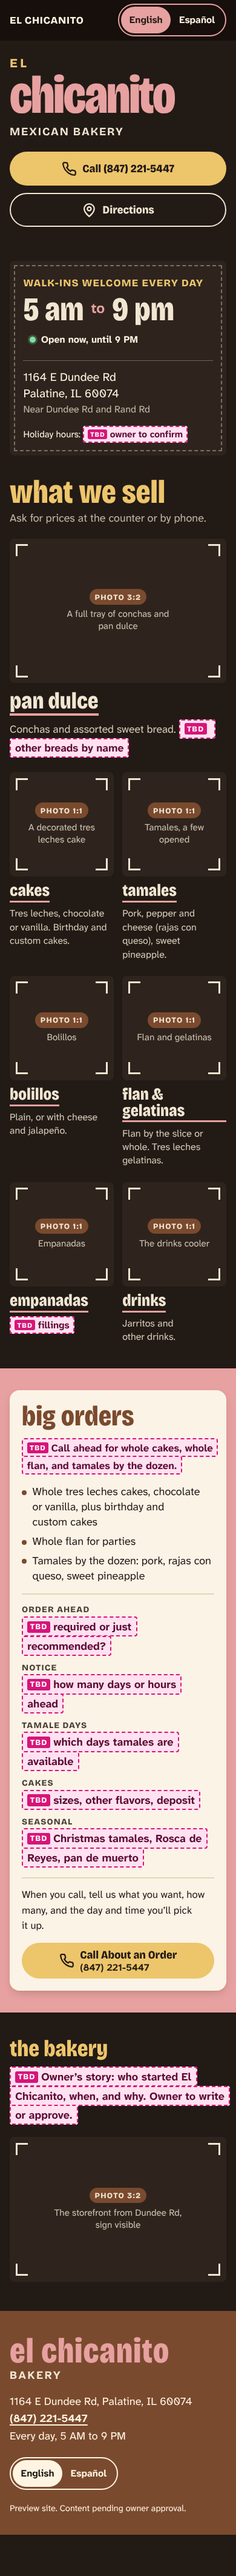
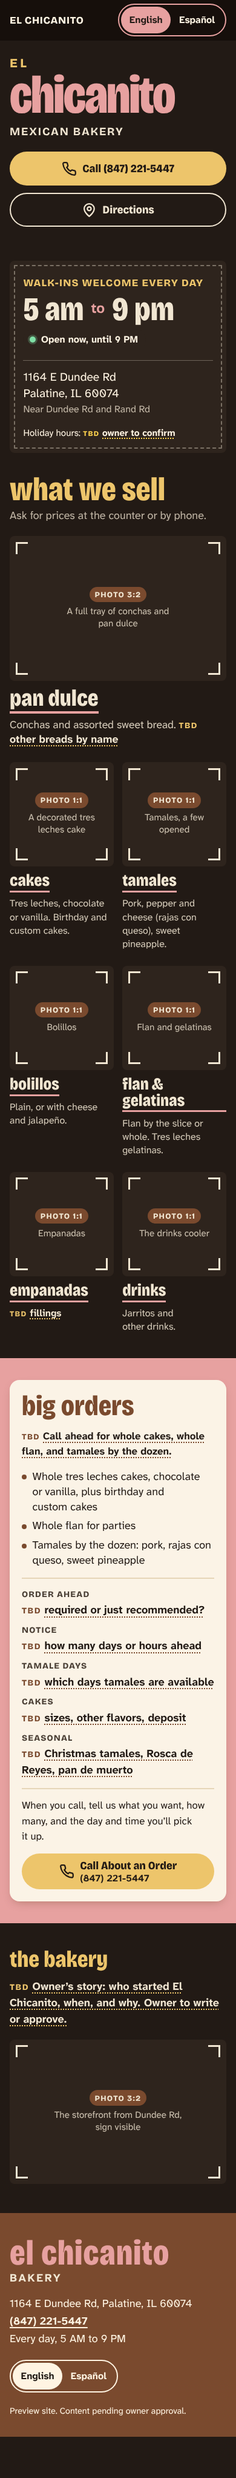
Restyle TBD placeholders in the site palette
Dark brown bold text with a dotted mustard underline and a small-caps
mustard TBD / Pendiente label; cream and sign yellow on the teal board.
No pink remains. Docs and Charola mockup updated to match.

Claude-Session: https://claude.ai/code/session_01HqK5gLnsxx27P9fMwrqeT7

diff --git a/styles.css b/styles.css
@@ -33,11 +33,10 @@
   --shadow: rgb(70 40 0 / .35);
   --cream-wash: rgb(255 244 226 / .14);
 
-  /* placeholders: deliberately off-palette so they are easy to find */
-  --ph-bg: #FFE1F0;
-  --ph-line: #D6157A;
-  --ph-ink: #5C0A35;
-  --ph-tag-ink: #FFFFFF;
+  /* placeholders: palette colors, marked by a mustard dotted underline and a TBD label */
+  --ph-ink: var(--ink-soft);   /* dark brown text */
+  --ph-line: var(--marigold);  /* mustard dotted underline */
+  --ph-tag: #855A00;           /* mustard label, deepened to stay readable on light grounds (5:1) */
 
   --display: "Anybody", "Arial Narrow", sans-serif;
   --body: "Atkinson Hyperlegible Next", "Segoe UI", system-ui, sans-serif;
@@ -465,29 +464,27 @@ address { font-style: normal; }
 
 /* ---------- Placeholders: easy to spot, easy to grep (class="ph") ---------- */
 .ph {
-  background: var(--ph-bg);
   color: var(--ph-ink);
-  border: 2px dashed var(--ph-line);
-  border-radius: 4px;
-  padding: .15em .4em;
-  line-height: 1.75;
   font-weight: 700;
-  -webkit-box-decoration-break: clone;
-  box-decoration-break: clone;
+  text-decoration-line: underline;
+  text-decoration-style: dotted;
+  text-decoration-color: var(--ph-line);
+  text-decoration-thickness: 2px;
+  text-underline-offset: .25em;
+  text-decoration-skip-ink: none;
 }
 .ph::before {
   content: "TBD";
-  display: inline-block;
+  display: inline-block;   /* keeps the underline off the label */
   margin-right: .4em;
-  padding: .05em .35em;
-  border-radius: 3px;
-  background: var(--ph-line);
-  color: var(--ph-tag-ink);
-  font: 800 .72em/1.4 var(--display);
-  letter-spacing: .08em;
+  color: var(--ph-tag);
+  font: 800 .78em/1 var(--display);
+  font-stretch: 115%;
+  letter-spacing: .1em;
   text-transform: uppercase;
-  vertical-align: .12em;
 }
+/* On the dark teal board the same marker switches to light text and the sign yellow. */
+.board .ph { --ph-ink: var(--cream); --ph-line: var(--sign-yellow); --ph-tag: var(--sign-yellow); }
 html[lang="es"] .ph::before { content: "Pendiente"; }
 
 /* ---------- About ---------- */

diff --git a/mockups/charola.css b/mockups/charola.css
@@ -22,6 +22,9 @@
 }
 
 body { background: var(--board); color: var(--chalk); }
+/* placeholders on the dark board use chalk text and concha yellow; on paper slips they go dark again */
+.ph { --ph-ink: var(--chalk); --ph-line: var(--concha-yellow); --ph-tag: var(--concha-yellow); }
+.slip .ph { --ph-ink: var(--board); --ph-line: var(--cocoa); --ph-tag: var(--cocoa); }
 ::selection { background: var(--concha-yellow); color: var(--board); }
 .link { color: var(--concha-pink); }
 :focus-visible { outline-color: var(--concha-yellow); }

diff --git a/DESIGN.md b/DESIGN.md
@@ -14,7 +14,7 @@ The page reads as the bakery's own painted signage, seen on a phone.
 | `--teal` | #1F5E5B | Hours board |
 | `--ink` | #1E1813 | Text, top bar, menu board, call dock |
 | `--cream` | #FFF4E2 | Text on red/teal/ink (4.8:1 on red) |
-| `--ph-*` | pink #D6157A family | Placeholders only, deliberately off-palette |
+| `--ph-*` | ink-soft text, marigold underline, #855A00 label | Placeholders (cream/sign-yellow on the teal board) |
 
 ## Type
 - Display: **Anybody** (variable, wdth 50–150, wght 100–900). The name uses wdth 64 / 850 with an ink outline and a 6-step drop shade; section titles use wdth 50–70 / 900, uppercase; small labels use wide widths (120–150%) with letter-spacing.
@@ -26,7 +26,7 @@ The page reads as the bakery's own painted signage, seen on a phone.
 - **Slip:** paper card with a dashed top edge (torn from the pad) and a soft shadow.
 - **Pad:** numbered order checklist; ruled lines follow the items.
 - **Buttons:** 56px tall, 3px ink border, marigold fill (call) or cream outline on red.
-- **Placeholder** `.ph`: pink dashed pill with a TBD / Pendiente tag.
+- **Placeholder** `.ph`: dark brown bold text, 2px dotted mustard underline, small-caps mustard "TBD" / "Pendiente" label.
 - **Photo slot** `.photo`: aspect-ratio frame with corner crop marks.
 - **Dock:** fixed call bar on phones. It is hidden while the hero buttons are visible, and hidden entirely on desktop, where the phone number sits in the top bar.
 

diff --git a/README.md b/README.md
@@ -22,7 +22,7 @@ Then open `http://localhost:8000/`. Useful links:
 
 ## Placeholders to fill (owner to confirm)
 
-Every unconfirmed item has a pink dashed tag on the page (TBD / Pendiente). To find them in the code, search `class="ph"`.
+Every unconfirmed item is marked on the page with a small mustard "TBD" (Spanish: "Pendiente") label and a dotted mustard underline. To find them in the code, search `class="ph"`.
 
 1. Holiday hours (Hours board). Also, the "Open now" pill does not know about holidays yet.
 2. The whole Big orders opening line: "Call ahead for whole cakes, whole flan, and tamales by the dozen" (placeholder wording)
